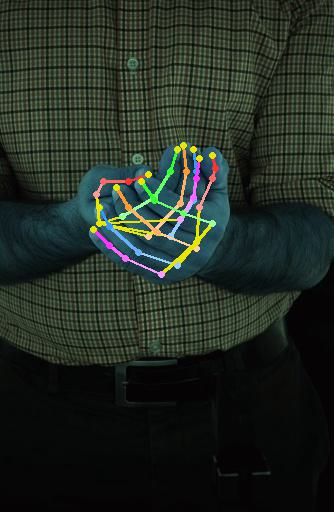
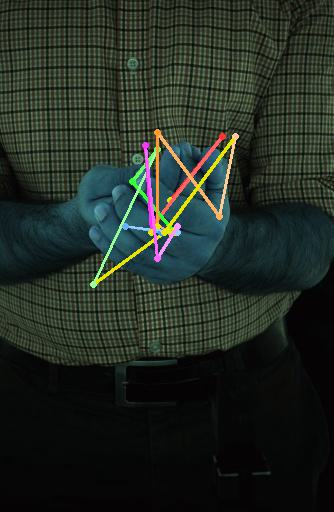
change something

Changed region(s): [[0.2395, 0.25, 0.7186, 0.5625]]

diff --git a/common/nets/module.py b/common/nets/module.py
@@ -136,6 +136,7 @@ class GAT_PoseNet(nn.Module):
         adjs = self.build_hand_adj()
         self.single_adj = adjs[0].cuda()
         self.cross_adj = adjs[1].cuda()
+        self.full_single_adj = torch.tensor(np.zeros((21, 21), dtype=int)).cuda()
         # self.hand_adj = self.build_hand_adj().cuda()
         # self.fuc_adj = torch.ones(21, 21).cuda()
 
@@ -158,20 +159,6 @@ class GAT_PoseNet(nn.Module):
             (0, 9), (9, 10), (10, 11), (11, 12),  # 手指3
             (0, 13), (13, 14), (14, 15), (15, 16),  # 手指4
             (0, 17), (17, 18), (18, 19), (19, 20)  # 手指5
-        ]
-
-        # 定义节点之间的连接关系
-        cross_connections = [
-            (0, 1), (1, 2), (2, 3), (3, 4),  # 手指1
-            (0, 5), (5, 6), (6, 7), (7, 8),  # 手指2
-            (0, 9), (9, 10), (10, 11), (11, 12),  # 手指3
-            (0, 13), (13, 14), (14, 15), (15, 16),  # 手指4
-            (0, 17), (17, 18), (18, 19), (19, 20),  # 手指5
-            (21, 22), (22, 23), (23, 24), (24, 25),  # 手指6
-            (21, 26), (26, 27), (27, 28), (28, 29),  # 手指7
-            (21, 30), (30, 31), (31, 32), (32, 33),  # 手指3
-            (21, 34), (34, 35), (35, 36), (36, 37),  # 手指4
-            (21, 38), (38, 39), (39, 40), (40, 41)  # 手指10
         ]
 
         # 根据连接关系更新邻接矩阵
@@ -208,7 +195,8 @@ class GAT_PoseNet(nn.Module):
         # joint_coord3d_2 = self.joint_hand_GAT_2(joint_coord3d_2, self.hand_adj)
         # joint_coord3d_2 = self.joint_linear_2(joint_coord3d_2)
 
-        cross_joint_coord3d = self.GATBlock1(joint_img_feat_1, joint_img_feat_2, self.single_adj, self.cross_adj)
+
+        cross_joint_coord3d = self.GATBlock1(joint_img_feat_1, joint_img_feat_2, self.full_single_adj, self.cross_adj)
         joint_coord3d_1, cross_joint_coord3d_2 = torch.chunk(cross_joint_coord3d, 2, dim=1)
         joint_coord3d = self.GATBlock2(joint_coord3d_1, cross_joint_coord3d_2, self.single_adj, self.cross_adj)
         joint_coord3d = self.joint_linear(joint_coord3d)

diff --git a/demo/demo.py b/demo/demo.py
@@ -57,8 +57,9 @@ joint_type = {'right': np.arange(0,joint_num), 'left': np.arange(joint_num,joint
 skeleton = load_skeleton(osp.join('../data/InterHand2.6M/annotations/skeleton.txt'), joint_num*2)
 
 # snapshot load
-model_path = './snapshot_%d.pth.tar' % int(args.test_epoch)
+# model_path = './snapshot_%d.pth.tar' % int(args.test_epoch)
 # model_path = '../output/model_dump/snapshot_6.pth.tar'
+model_path = '../output/model_dump/snapshot_2.pth.tar'
 assert osp.exists(model_path), 'Cannot find model at ' + model_path
 print('Load checkpoint from {}'.format(model_path))
 model = get_model('test', joint_num)
